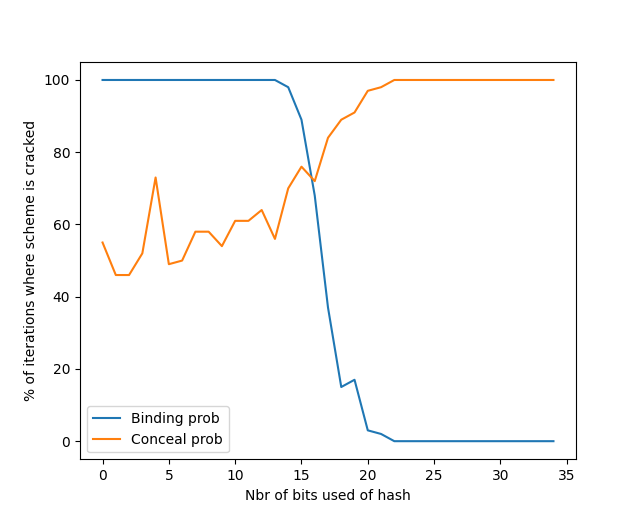
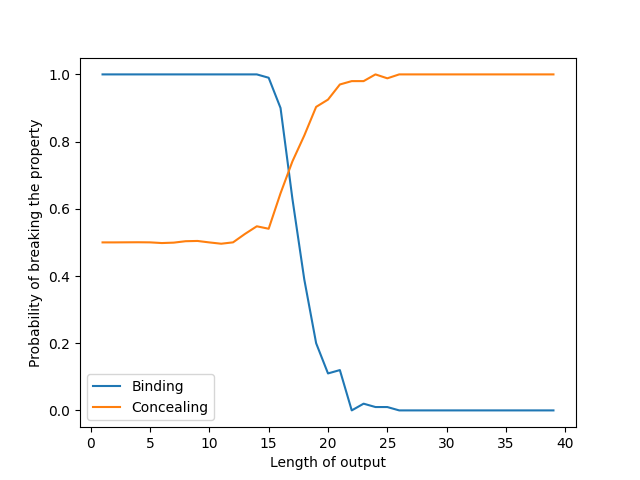
HA3-B1 done

diff --git a/HA3/HA3-B1.py b/HA3/HA3-B1.py
@@ -1,74 +1,118 @@
 import hashlib
-import random
-import time
-import matplotlib.pyplot as plt
- 
-# INTE VÅR! 
+import matplotlib.pyplot
+from random import randint
 
-def commit(v, k, X):
-    m = hashlib.sha1()
-    message = bin(v)[2:] + bin(k)[2:]
-    m.update(message.encode('UTF-8'))
-    commitHash = bin(int(m.hexdigest(), 16))
-    return commitHash[2:X + 2]
+x_values = []
+y_values = []
+y_conceal_values = []
 
-def breakBinding(collision, v, X):
-    q = 0 if v == 1 else 1
-    for i in range(2 ** 15, 2 ** 16):
-        if collision == commit(q, i, X):
-            return 1
-    return 0
+# Generates a commit according to the commitment scheme.
+# Returns a bit version of a hashed string.
 
-def breakConcealing(collision, X):
-    falseHit = 0
-    trueHit = 0
-    for i in range(2 ** 15, 2 ** 16):
-        if commit(0, i, X) == collision:
-            falseHit += 1
-        if commit(1, i, X) == collision:
-            trueHit += 1
-    
-    if falseHit > trueHit:
-        return 0
-    elif trueHit > falseHit:
-        return 1
-    else:
-        return random.randint(0,1)
 
-X = 35
-iterations = 100
-bindArray = []
-concealArray = []
-for x in range(X):
-    bindSuccess = 0
-    concealSuccess = 0
-    for i in range(iterations):
-        k = random.randint(2 ** 15, (2 ** 16) - 1)
-        commitment = commit(1, k, x)
-        bindSuccess += breakBinding(commitment, 1, x)
-        concealSuccess += breakConcealing(commitment, x)
+def create_commit(v, k):
+    m = str(bin(v)[2:] + bin(k)[2:])
+    hash_object = hashlib.sha1(m.encode())
+    hash_value = hash_object.hexdigest()
+    return bin(int(hash_value, 16))
 
-        if i % 10 == 0 and i != 0:
-            print(i, " iterations out of ", iterations, " done")
+# Generates a list of all possible k values to break binding.
 
-    print("For X =", x, "the probability of..")
-    if bindSuccess != 0:
-        print("Binding attack's success rate is:", str(int(100 * bindSuccess / iterations))[:5], "%")
-        bindArray.append(int(100 * bindSuccess / iterations))
-    else:
-        print("Binding success: 0 %")
-        bindArray.append(0)
-    if concealSuccess != 0:
-        print("Concealing attack's success rate is:", str(int(100 * concealSuccess / iterations))[:5], "%")
-        concealArray.append(int(100 * concealSuccess / iterations))
-    else:
-        print("Concealing success: 0 %")
-        concealArray.append(0)
 
-x = [X for X in range(0, 35, 1)]
-plt.plot(x, bindArray, label="Binding prob")
-plt.plot(x, concealArray, label="Conceal prob")
-plt.ylabel('% of iterations where scheme is cracked')
-plt.xlabel('Nbr of bits used of hash')
-plt.legend(loc='best')
-plt.show()
+def create_k():
+    values_of_k = []
+    for i in range(0, 2 ** 16 - 1):
+        values_of_k.append(i)
+    return values_of_k
+
+# Constructs a dictionary with all possible commit-values for v = 0 and v = 1.
+
+
+def construct_columns(values, X):
+    left_column = []
+    right_column = []
+
+    for k in values:
+        left_column.append(create_commit(0, k))
+        right_column.append(create_commit(1, k))
+
+    dict = {"left": left_column, "right": right_column}
+    return dict
+
+
+# Code from https://www.geeksforgeeks.org/python-intersection-two-lists/
+def intersection(left, right):
+    res = [value for value in left if value in right]
+    return res
+
+
+def find_collisions(X):
+    columns = construct_columns(create_k(), X)
+    left_column = columns.get("left")
+    right_column = columns.get("right")
+    bindings = []
+    conceals = []
+
+    for trunc_value in range(1, X):
+        possible_intersections_left = []
+        possible_intersections_right = []
+        left_set = set()
+        right_set = set()
+        total_commits = 0
+
+        for left in left_column:
+            val = left[2: trunc_value + 2]
+            possible_intersections_left.append(val)
+            left_set.add(val)
+        for right in right_column:
+            val = right[2: trunc_value + 2]
+            possible_intersections_right.append(val)
+            right_set.add(val)
+        res = intersection(
+            possible_intersections_left, right_set)
+        nbr_of_collisions = len(res)
+
+        print("Nbr of collisions for X-value = " +
+              str(trunc_value) + " : " + str(nbr_of_collisions))
+        x_values.append(trunc_value)
+        y_values.append(100 * (nbr_of_collisions) / 2 ** 16)
+
+        possibilities = left_set.union(right_set)
+        possibilites = left_set.symmetric_difference(right_set)
+
+        ratio = len(possibilites) / len(possibilites)
+
+
+
+        print("Probablility of breaking concealing property: " + str(find_conceals()))
+        y_conceal_values.append(100 * find_conceals())
+
+    stats(x_values, y_values, y_conceal_values)
+
+def find_conceals():
+    v = randint(0, 1)
+    k_values = create_k()
+    commits = {0: [], 1: []}
+    for k in k_values:
+        commit = create_commit(randint(0, 1), k)
+
+        for i in range(2**16):
+            commit0 = create_commit(0, i)
+            commit1 = create_commit(1, i)
+
+            if commit == commit0: commits[0].append(commit0)
+            if commit == commit1: commits[1].append(commit1)
+        return len(commits[v]) / (len(commits[0]) + len(commits[1]))
+
+
+def stats(x, y, y2):
+    stats = matplotlib.pyplot
+    stats.plot(x, y, label="Binding property")
+    stats.plot(x, y2, label="Concealing property")
+    stats.xlabel("Hash output length")
+    stats.ylabel("Percent")
+    stats.legend(loc='best')
+    stats.show()
+
+
+find_collisions(40)

diff --git a/HA3/HA3-B1second.py b/HA3/HA3-B1second.py
@@ -1,0 +1,99 @@
+from random import randint
+import matplotlib.pyplot as plot
+import hashlib
+
+X_value = 40
+
+
+def generate_k_values():
+    values_of_k = []
+    for i in range(0, 2 ** 16 - 1):
+        values_of_k.append(i)
+    return values_of_k
+
+
+def create_k():
+    return randint(0, 2 ** 16 - 1)
+
+
+def create_v():
+    return randint(0, 1)
+
+
+def commit_values(X):
+    v = create_v()
+    return v, create_commit(v, create_k(), X)
+
+
+def create_commit(v, k, X):
+    m = str(bin(v)[2:] + bin(k)[2:])
+    hash_object = hashlib.sha1(m.encode())
+    hash_value = hash_object.hexdigest()
+    return bin(int(hash_value, 16))[2: X + 2]
+
+
+def calc_binding(X):
+    v, initial_commit = commit_values(X)
+    changed_v = 1
+    if v == 1:
+        changed_v = 0
+    value = 0
+    for k in generate_k_values():
+        commit = create_commit(changed_v, k, X)
+        if commit == initial_commit:
+            return value + 1
+    return value
+
+
+def calc_concealing(X):
+    v, initial_commit = commit_values(X)
+    commits0 = []
+    commits1 = []
+    for k in generate_k_values():
+        c0 = create_commit(0, k, X)
+        c1 = create_commit(1, k, X)
+        if c0 == initial_commit:
+            commits0.append(c0)
+        if c1 == initial_commit:
+            commits1.append(c1)
+
+    if v == 1:
+        return len(commits1) / (len(commits0) + len(commits1))
+
+    return len(commits0) / (len(commits0) + len(commits1))
+
+
+def calc_probabilities():
+    calculated_binding_prob = []
+    calculated_concealing_prob = []
+    x_values = []
+    iterations = 100
+
+    for output_length in range(1, X_value):
+        binding_values = []
+        concealing_values = []
+        for k in range(iterations):
+            binding_values.append(calc_binding(output_length))
+            concealing_values.append(calc_concealing(output_length))
+
+        calculated_binding_prob.append(
+            sum(binding_values) / len(binding_values))
+        calculated_concealing_prob.append(
+            sum(concealing_values) / len(binding_values))
+        x_values.append(output_length)
+        print("Simulating with hash output length: " + str(output_length))
+    return calculated_binding_prob, calculated_concealing_prob, x_values
+
+
+def stats():
+    calculated_binding_prob, calculated_concealing_prob, x_values = calc_probabilities()
+    plot.ylabel("Probability of breaking the property")
+    plot.xlabel("Length of output")
+
+    plot.plot(x_values, calculated_binding_prob, label="Binding")
+    plot.plot(x_values, calculated_concealing_prob, label="Concealing")
+    plot.legend(loc='best')
+    plot.show()
+
+
+stats()
